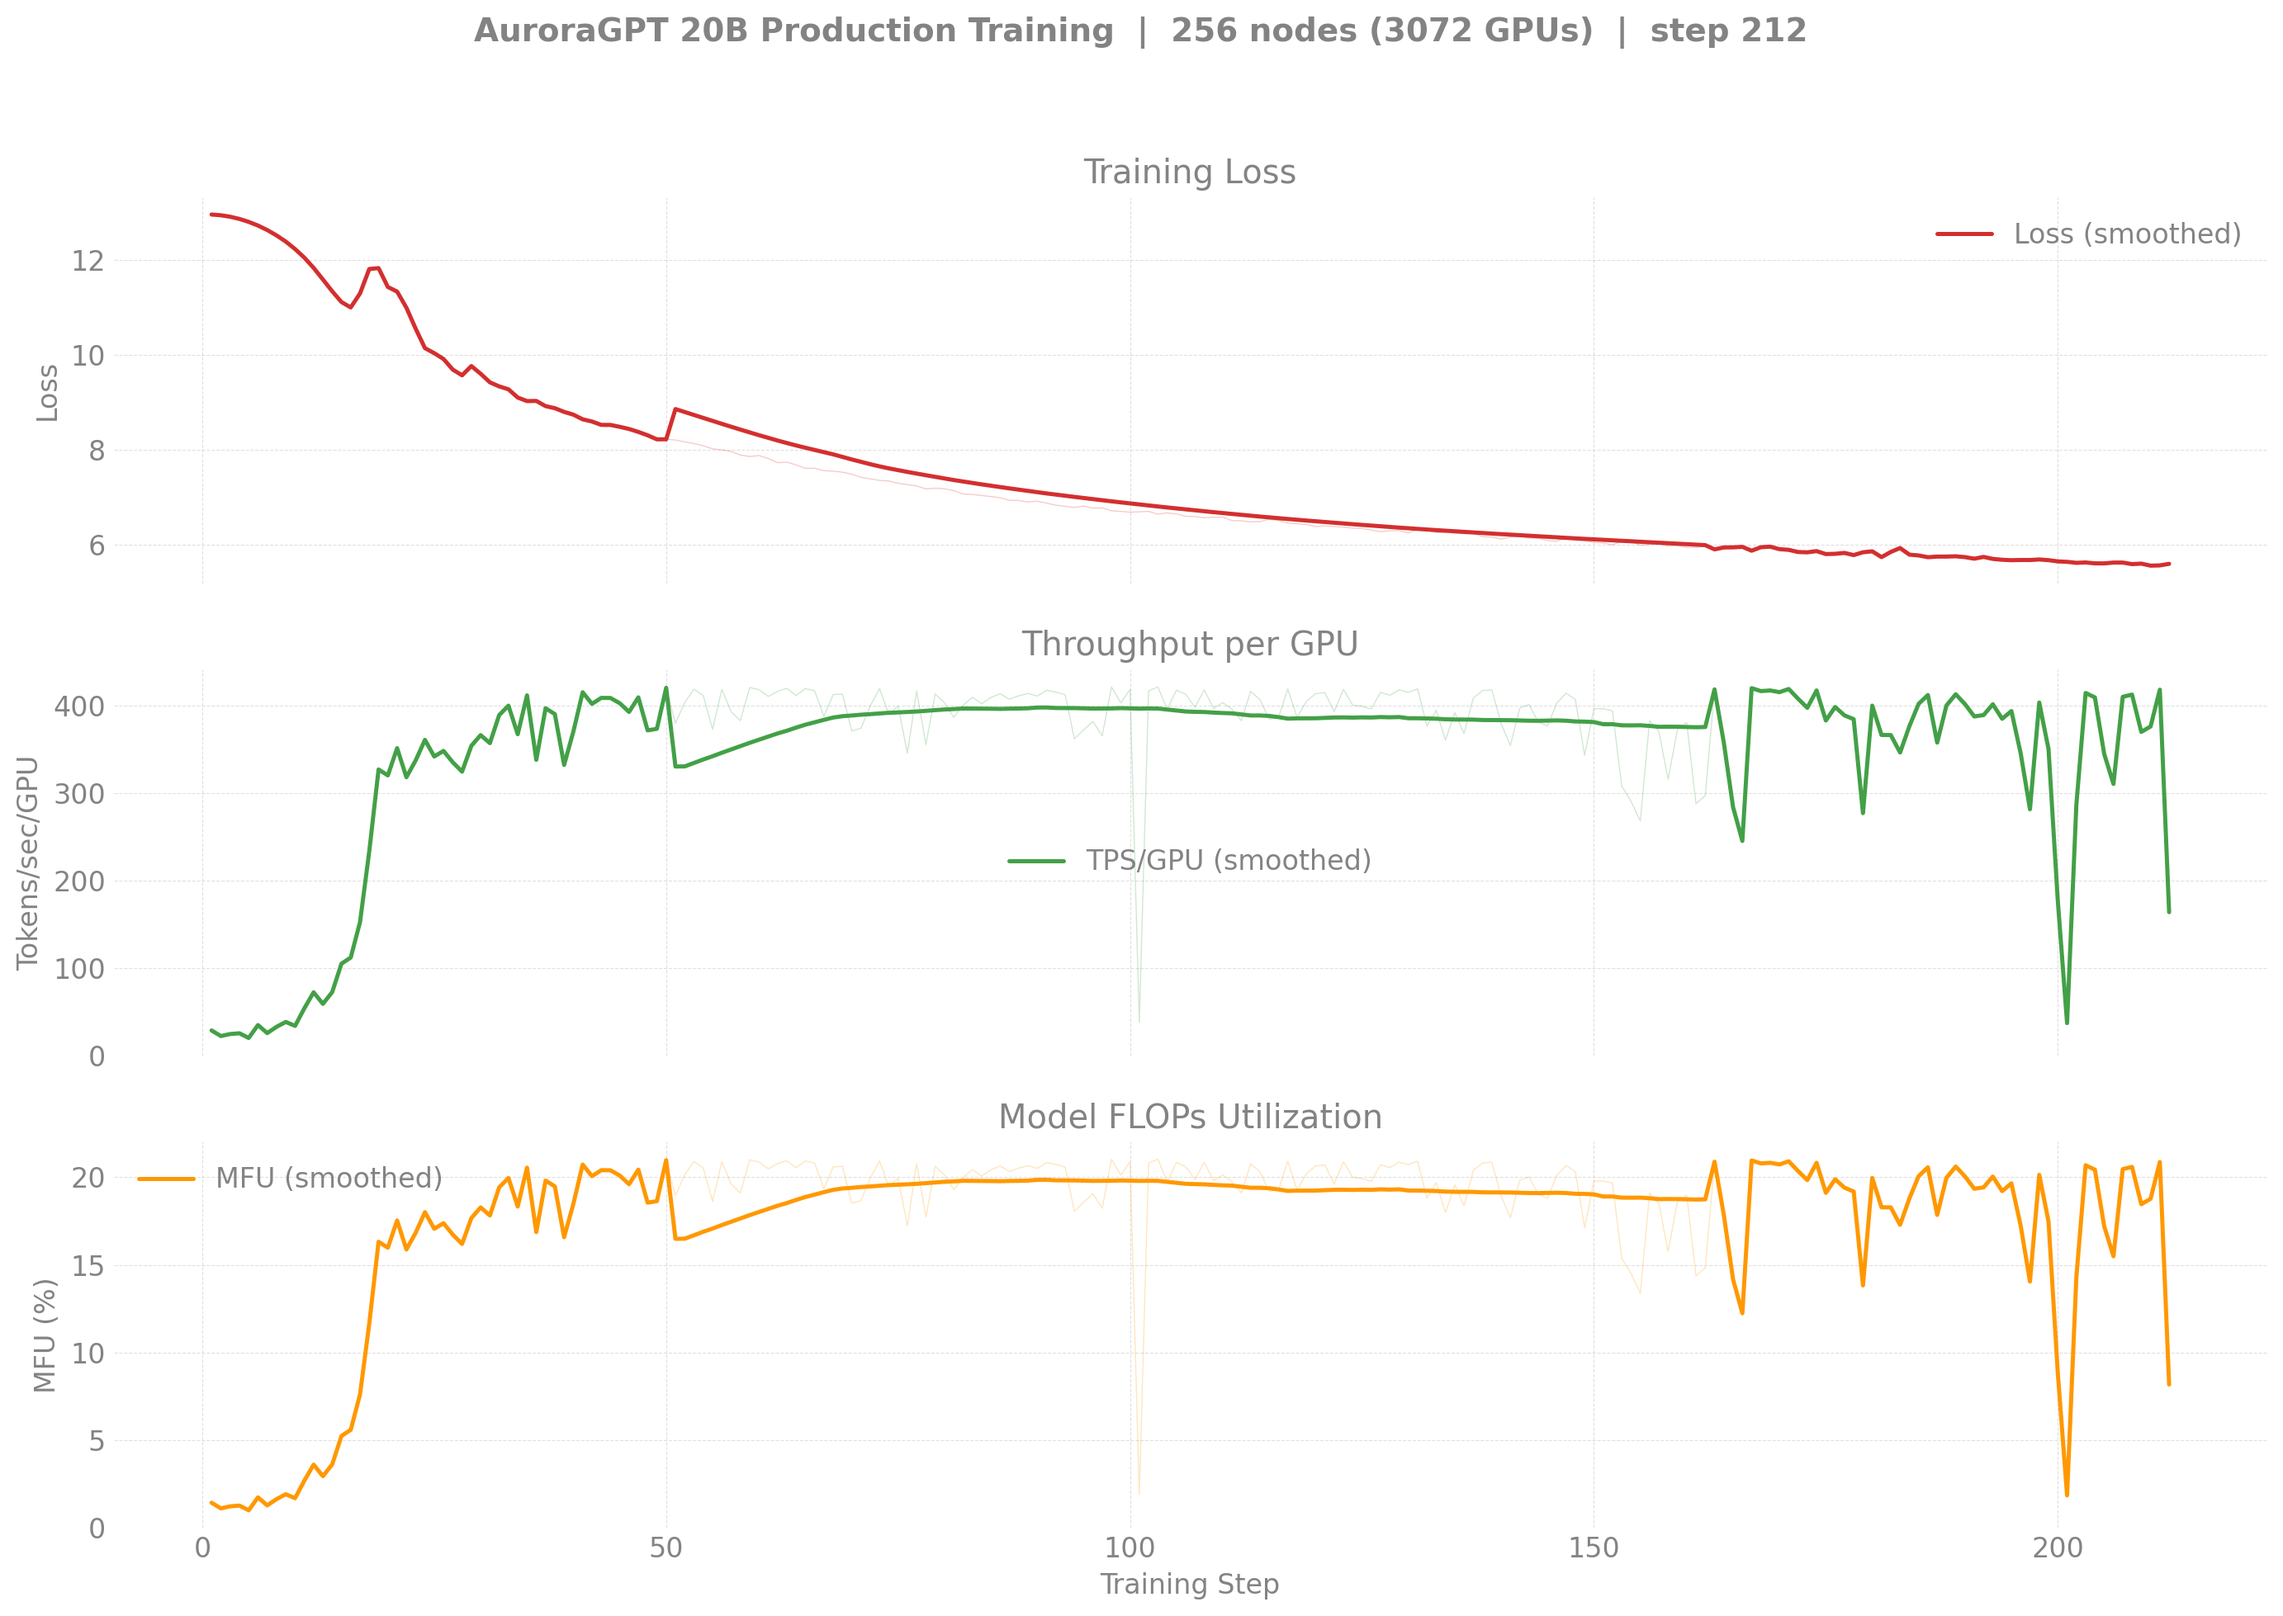
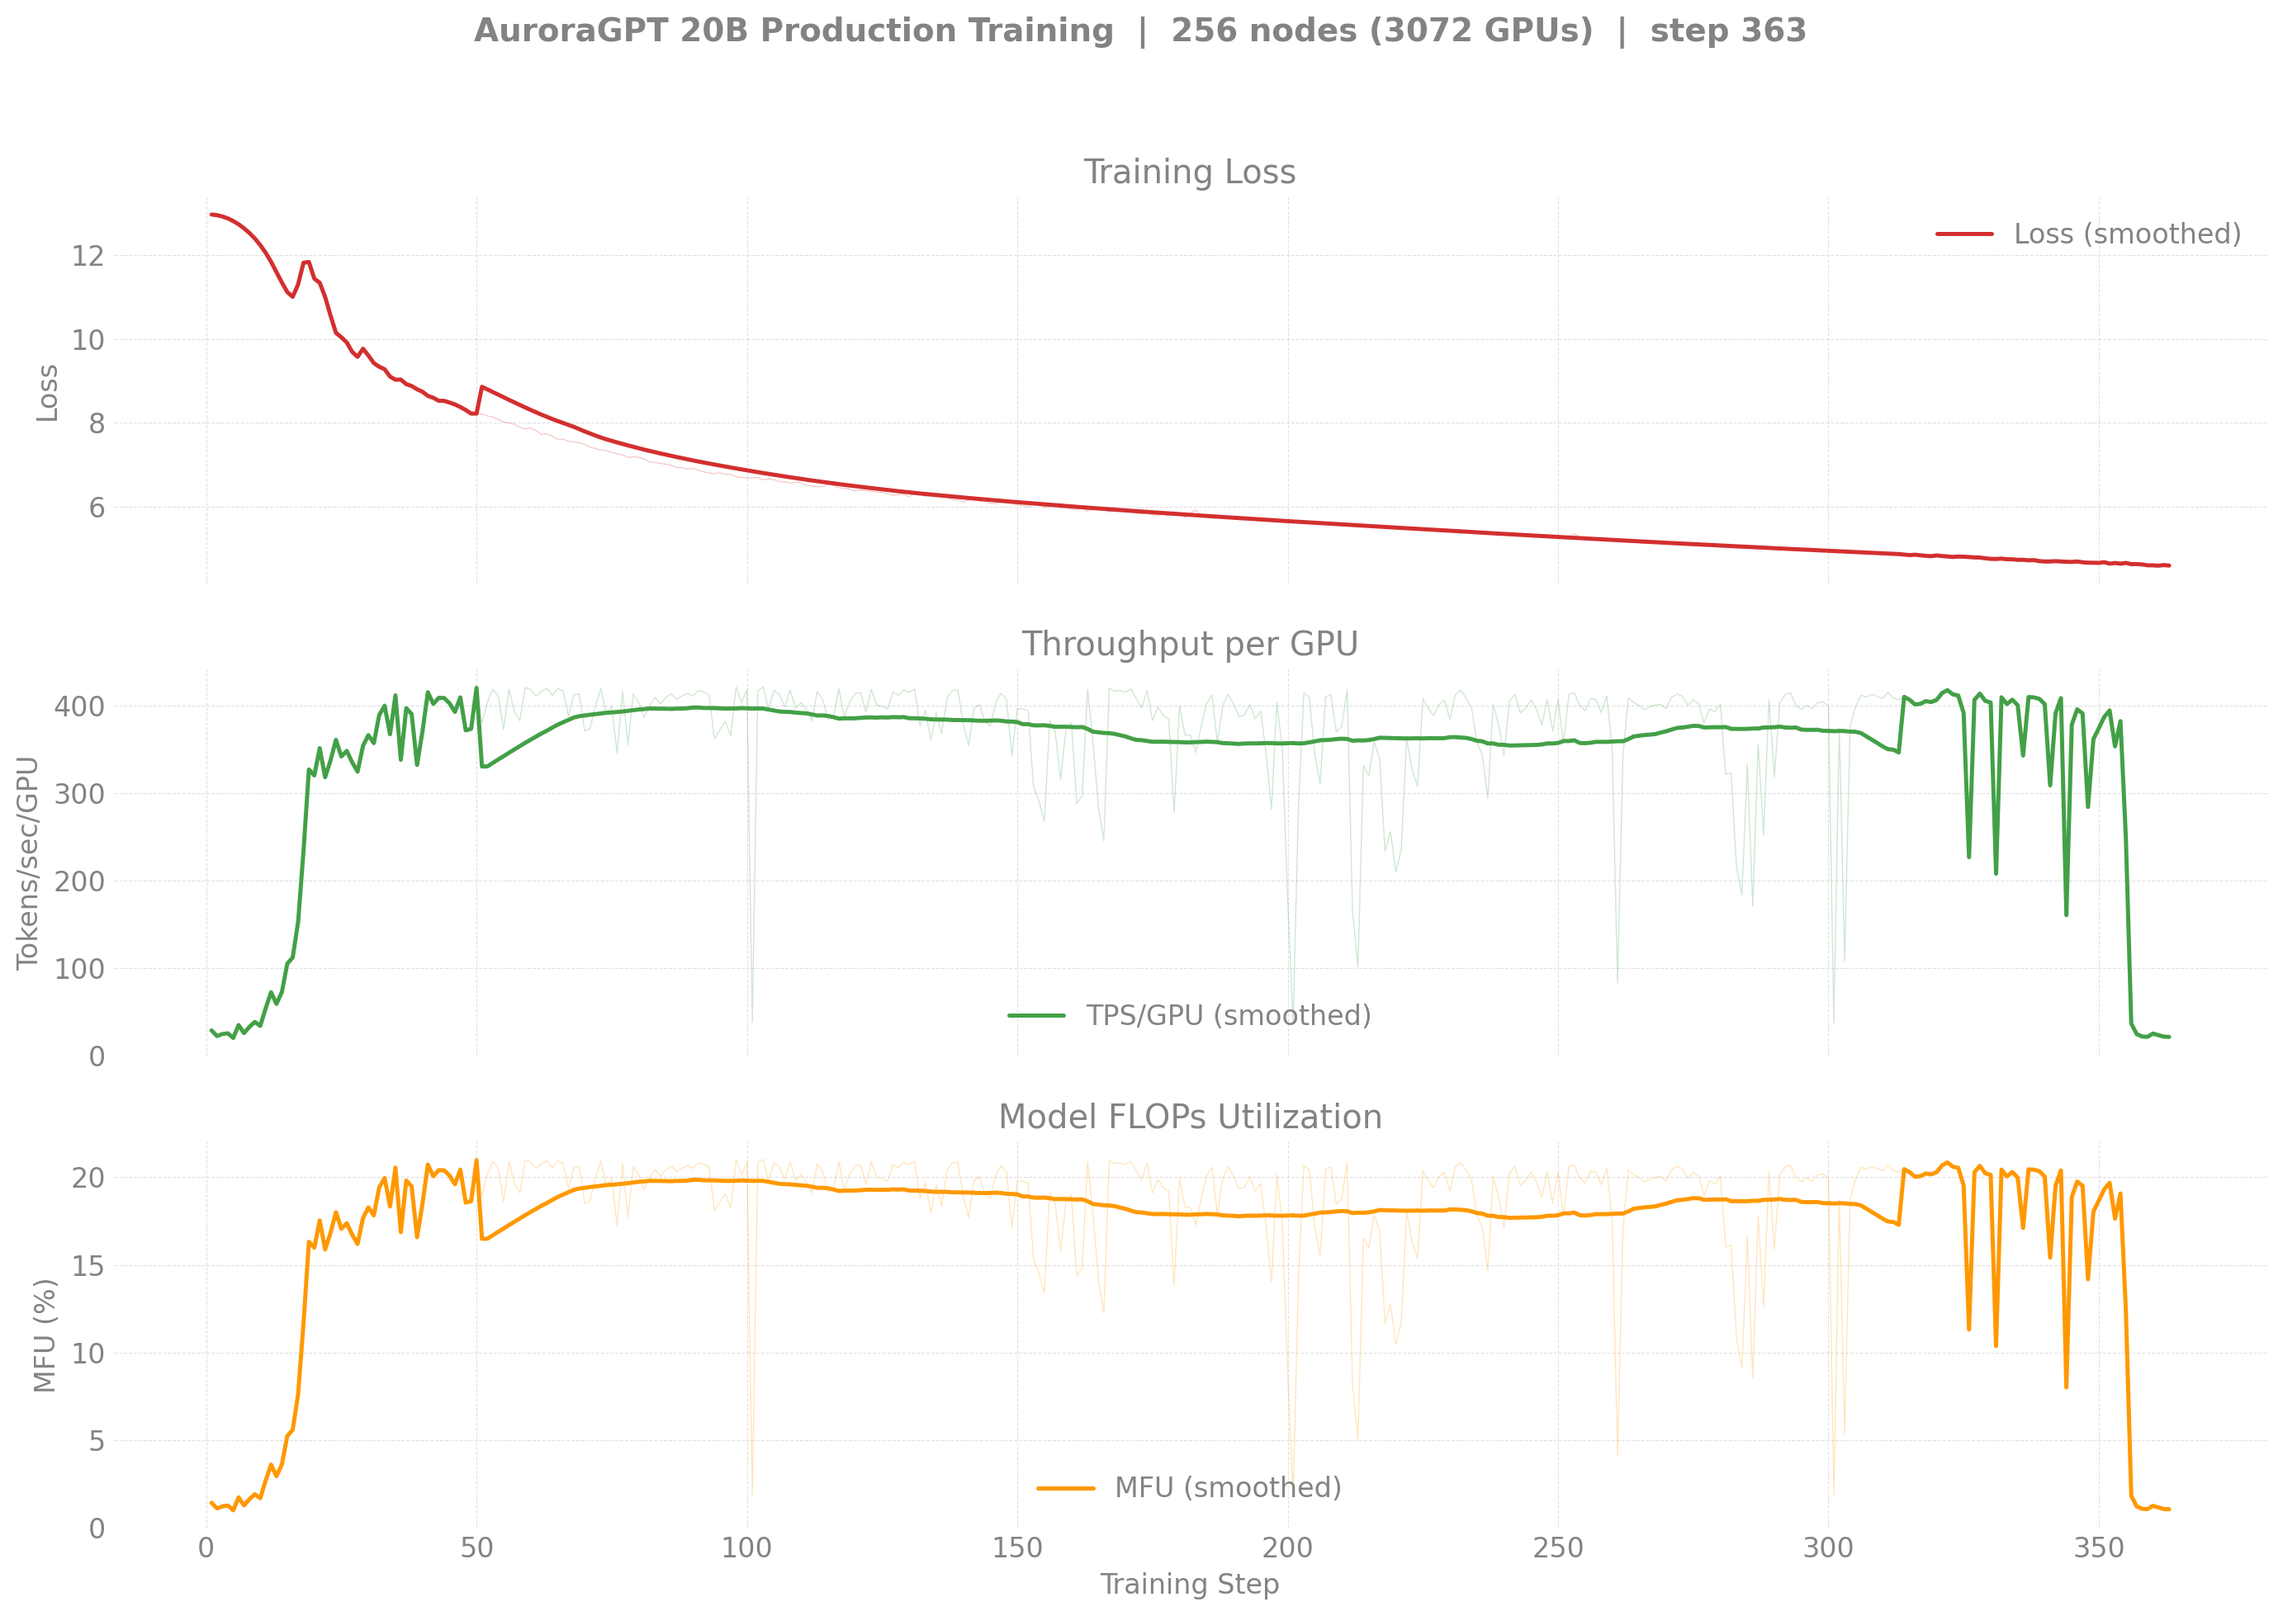
docs(ezpz/production): refresh 20B v2 256N at step 363 (loss 4.60)
8463659 has progressed from step 200 -> 363 since the morning refresh.
Loss continues descending (5.65 -> 4.60). TPS has been swinging
between 21 and 410 depending on flare-bandwidth contention; the
per-trajectory README now documents that variability rather than
quoting the steady-state range. Plots regenerated to include the new
163 steps; parent snapshots updated to current numbers.

diff --git a/torchtitan/experiments/ezpz/docs/production/agpt/20b/n256/README.md b/torchtitan/experiments/ezpz/docs/production/agpt/20b/n256/README.md
@@ -6,9 +6,12 @@
 
 ## v2 — 20B @ 256N — SophiaG LR=2.28e-5 (fp32 master)
 
-> Status: 8463659 currently **running** at step 200 (loss 5.65, MFU
-> 14-20%). Independent trajectory from the canonical 512N chain
-> ([n512/](../n512/README.md)) — different ckpt dir
+> Status: 8463659 currently **running** at step 363 (loss 4.60).
+> Throughput has been bouncing between 21 and 410 TPS depending on
+> concurrent flare bandwidth — when the filesystem is uncontested the
+> run hits ~20% MFU; under contention (eval ckpt I/O, other yeet-env
+> jobs) it drops to ~1% MFU. Independent trajectory from the canonical
+> 512N chain ([n512/](../n512/README.md)) — different ckpt dir
 > (`gbs6144` vs `gbs12288`), starts fresh from step 0. Useful as a
 > per-token comparator at the same optimizer state.
 
@@ -42,11 +45,11 @@
 
 | Job ID | Walltime | Steps | Loss (start → end) | TPS/GPU | MFU | Status |
 |--------|---------:|------:|-------------------:|--------:|----:|--------|
-| 8463659 | 12h | 1–200+ | 12.96 → **5.65** | ~280-410 | ~14-20% | **Running** (~5h elapsed of 12h walltime; step-100 + step-200 ckpts saved) |
+| 8463659 | 12h | 1–363+ | 12.96 → **4.60** | 21-410 (variable) | 1-20% (variable) | **Running** (~9h elapsed of 12h walltime; step-100/200/300 ckpts saved) |
 
-**Latest checkpoint:** step-200
+**Latest checkpoint:** step-300
 
-**Tokens consumed:** 200 × 6,144 × 8,192 = **10.1B tokens** (0.22% of 4.67T target)
+**Tokens consumed:** 363 × 6,144 × 8,192 = **18.3B tokens** (0.39% of 4.67T target)
 
 **Logs:**
 

diff --git a/torchtitan/experiments/ezpz/docs/production/agpt/20b/README.md b/torchtitan/experiments/ezpz/docs/production/agpt/20b/README.md
@@ -12,7 +12,7 @@
 | [v1 256N](n256/README.md) (bf16-tainted) | Historical | 2,562 | 4.83 | 64.5B |
 | [**v2 512N**](n512/README.md) (canonical chain) | Walltime hit @ step 863 (loss 3.46); 8466848 queued for resume | **863** | **3.46** | **87B** (1.9%) |
 | [v2 1024N](n1024/README.md) | Queued, no data yet | — | — | — |
-| [20B v2 256N](n256/README.md) (8463659) | **Running** at step 200+, fresh start (separate ckpt dir n256-gbs6144) | 200 | 5.65 | 10B |
+| [20B v2 256N](n256/README.md) (8463659) | **Running** at step 363+, fresh start (separate ckpt dir n256-gbs6144) | 363 | 4.60 | 18B |
 
 ## v1 vs v2 — overlay
 

diff --git a/torchtitan/experiments/ezpz/docs/production/agpt/README.md b/torchtitan/experiments/ezpz/docs/production/agpt/README.md
@@ -42,7 +42,7 @@ extensions.
 |--------|-------|------:|---------:|--------|-------|
 | 8463182 | 2B | 1024 | 12h | **Crashed @ startup (211s, std::bad_alloc)** | Fresh start, separate ckpt dir (`n1024-gbs24576`) |
 | 8463183 | 20B | 1024 | 12h | **Crashed @ startup (211s, SIGSEGV)** | Fresh start, separate ckpt dir (`n1024-gbs24576`) |
-| 8463659 | 20B | 256 | 12h | **Running** (step 200, loss 5.65) | Fresh start, separate ckpt dir (`n256-gbs6144`) |
+| 8463659 | 20B | 256 | 12h | **Running** (step 363, loss 4.60) | Fresh start, separate ckpt dir (`n256-gbs6144`) |
 
 **80B**: not yet restarted in v2.
 

diff --git a/torchtitan/experiments/ezpz/docs/production/README.md b/torchtitan/experiments/ezpz/docs/production/README.md
@@ -40,7 +40,7 @@ for the diagnosis.
 |--------|-------|------:|---------:|--------|
 | 8463182 | 2B | 1024 | 12h | **Crashed @ startup (211s, std::bad_alloc)** |
 | 8463183 | 20B | 1024 | 12h | **Crashed @ startup (211s, SIGSEGV)** |
-| 8463659 | 20B | 256 | 12h | **Running** (step 200, loss 5.65) |
+| 8463659 | 20B | 256 | 12h | **Running** (step 363, loss 4.60) |
 
 ### Dense (agpt) — bf16-tainted (superseded, kept for record)
 
